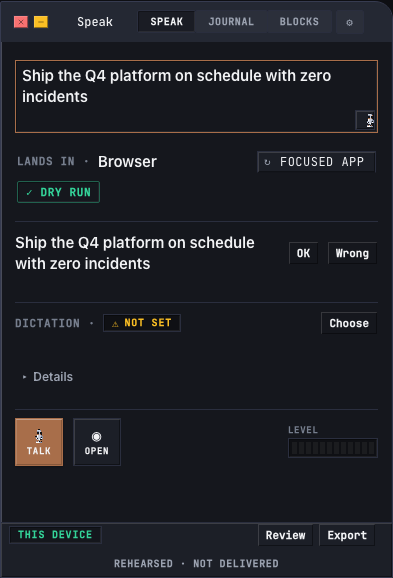
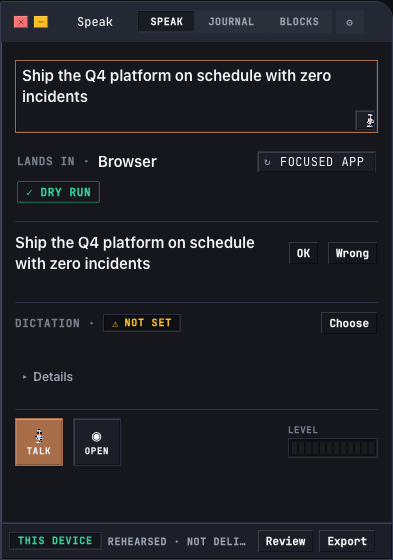
feat(face): HS-170-04 — Speak footer stays one line at 393
Claude-Session: https://claude.ai/code/session_016siGSBgZph9EhEdGMoyWcu
PMO-Story: HS-170-04
PMO-Contract-Digest: sha256:56b0b245324a9b34251ff6a197043a7f899451074c2b6219f9fad03f67307cf4

diff --git a/web/src/desk/components/speak.css b/web/src/desk/components/speak.css
@@ -201,6 +201,22 @@
   padding-right: 8px;
 }
 
+/* 393 footer: one line — chip · receipt (truncated) · verbs trailing. */
+@container surface (max-width: 420px) {
+  .desk-next .speak-footer {
+    grid-template-columns: max-content minmax(0, 1fr) max-content;
+    grid-template-areas: "egress receipt verbs";
+    row-gap: 0;
+  }
+  .desk-next .speak-footer .surface-footer-receipt {
+    height: auto;
+    white-space: nowrap;
+    overflow: hidden;
+    text-overflow: ellipsis;
+    min-width: 0;
+  }
+}
+
 /* ── 393: phone stacking ── */
 @container surface (max-width: 500px) {
   .desk-next .speak-transport {
